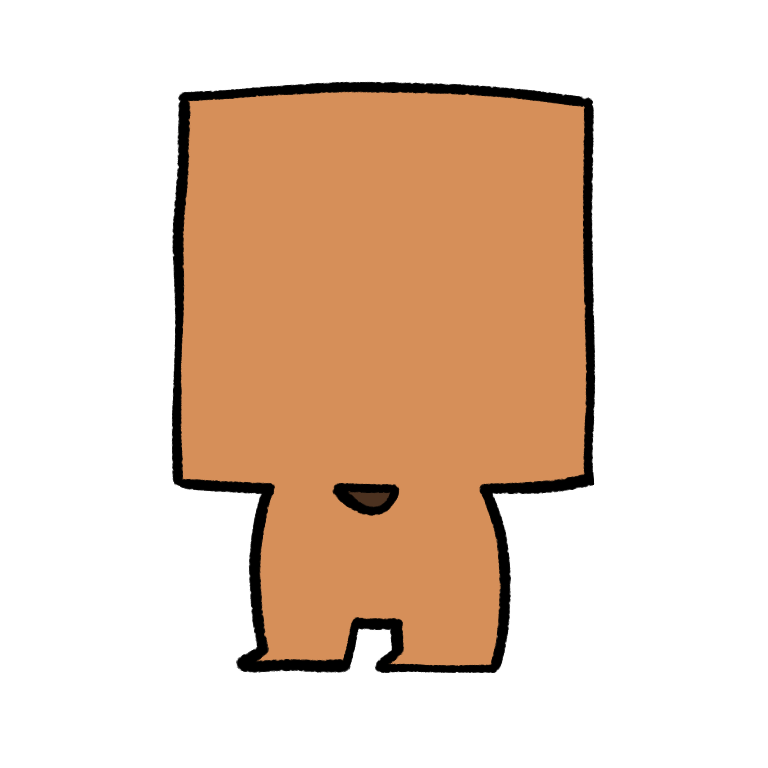
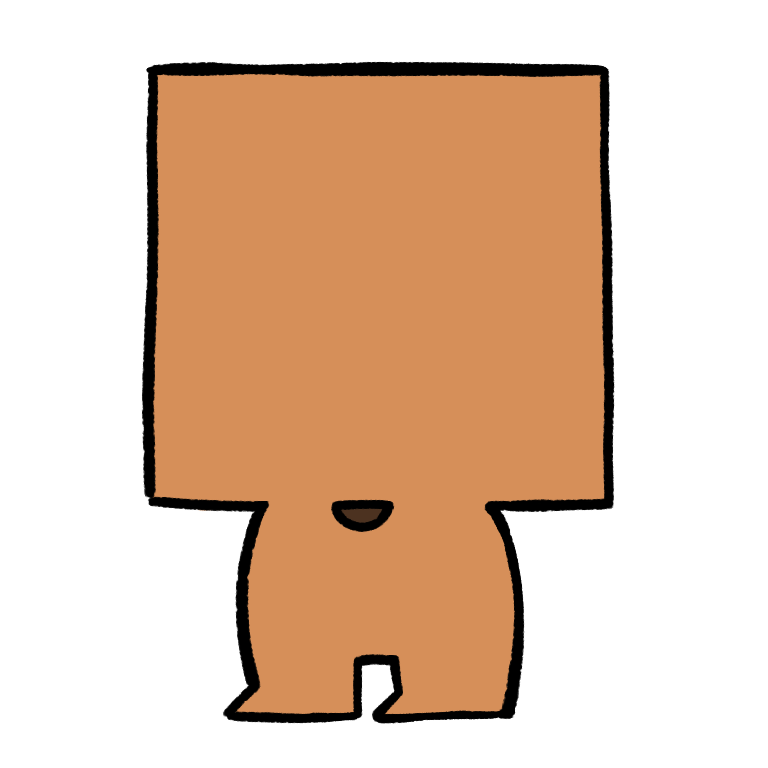
boo 기본 애니메이션

Changed region(s): [[0.1875, 0.0625, 0.8125, 0.9688], [0.4062, 0.625, 0.5312, 0.6875]]

diff --git a/Assets/Scripts/Player.cs b/Assets/Scripts/Player.cs
@@ -72,7 +72,7 @@ public class Player : MonoBehaviour
     {
         if (collision.gameObject.CompareTag("Ground"))
         {
-            isGround = true;
+            isGround = false;
             animator.SetBool("IsGround", false);
         }
     }
@@ -84,15 +84,11 @@ public class Player : MonoBehaviour
 
     void KeyInput()
     {
-        Vector3 turnRotation = Vector3.zero;
-
         animator.SetBool("isMoving", false);
 
         // bomb으로 전환했을 때 위에서 아래로 떨어지면 hp가 깎이는 기능 추가?
         if (playerType == PlayerType.bomb)
         {
-            animator.SetBool("isPlayerBoo", false);
-
             if (Input.GetKey(KeyCode.A))
             {
                 sprite.flipX = false;
@@ -131,8 +127,9 @@ public class Player : MonoBehaviour
 
             if (Input.GetKeyDown(KeyCode.Tab))
             {
-                rb.useGravity = true;
+                rb.useGravity = false; // boo일 때는 중력에 영향을 받지 않는다.
                 playerType = PlayerType.boo;
+                animator.SetBool("isBoo", true);
                 Debug.Log("Tab, bomb to boo");
             }
 
@@ -143,33 +140,34 @@ public class Player : MonoBehaviour
         }
         else if (playerType == PlayerType.boo)
         {
-            animator.SetBool("isPlayerBoo", true);
-            
             if (Input.GetKey(KeyCode.W))
             {
                 animator.SetBool("isMoving", true);
-                transform.Translate(Vector3.forward * pSpeed * Time.deltaTime);
+                transform.Translate(Vector3.up * pSpeed * Time.deltaTime);
             }
             if (Input.GetKey(KeyCode.A))
             {
+                sprite.flipX = false;
                 animator.SetBool("isMoving", true);
                 transform.Translate(Vector3.left * pSpeed * Time.deltaTime);
             }
             if (Input.GetKey(KeyCode.S))
             {
                 animator.SetBool("isMoving", true);
-                transform.Translate(Vector3.back * pSpeed * Time.deltaTime);
+                transform.Translate(Vector3.down * pSpeed * Time.deltaTime);
             }
             if (Input.GetKey(KeyCode.D))
             {
+                sprite.flipX = true;
                 animator.SetBool("isMoving", true);
                 transform.Translate(Vector3.right * pSpeed * Time.deltaTime);
             }
 
             if (Input.GetKeyDown(KeyCode.Tab))
             {
-                rb.useGravity = false;
+                rb.useGravity = true; // bomb일 때는 중력에 영향을 받는다.
                 playerType = PlayerType.bomb;
+                animator.SetBool("isBoo", false);
                 Debug.Log("Tab, booo to bomb");
             }
 

diff --git a/Assets/Scripts/Monster.cs b/Assets/Scripts/Monster.cs
@@ -72,12 +72,6 @@ public class Monster : MonoBehaviour
         
         FollowCameraRotate();
 
-        if (monsterType == MonsterType.boss)
-        {
-        }
-        if (monsterType == MonsterType.miniboss)
-        {
-        }
         if (monsterType == MonsterType.spider)
         {
             MonsterAI();
